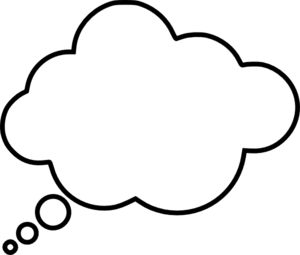
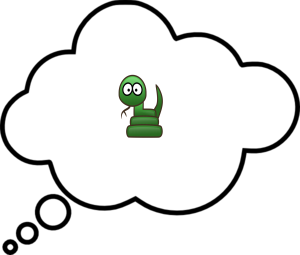
draft dream complete

Changed region(s): [[0.39, 0.2745, 0.57, 0.549]]

diff --git a/xkaa.py b/xkaa.py
@@ -20,7 +20,7 @@ from PIL import Image
 import textwrap
 
 
-def combine_sources(action,posx,posy,img1,img2,final):
+def combine_sources(posx,posy,img1,img2,final):
 	output = final
 	s1 = cairo.ImageSurface.create_from_png(img1)
 	s2 = cairo.ImageSurface.create_from_png(img2)
@@ -42,8 +42,11 @@ class Puppet():
 		self.dreamballoon = "images/dream.png"
 		self.thinkballoon = "images/dream.png"
 		self.shoutballoon = "images/shout.png"
+		self.dreambase = "images/dreambase.png"
+		self.minidream = "images/minidream.png"
 		self.fontfile = "fonts/BonvenoCF-Light.otf"
 		self.title = "xKaa"
+		self.dreamed = dreamed
 
 		self.verb = verb
                 self.text = text
@@ -73,6 +76,18 @@ class Puppet():
 		win.shape_combine_mask(mask, 0, 0)
 		# and show
 		win.show_all()
+
+	def make_dream(self):
+		# combine images together
+		posx = 100
+		posy = 30
+		im = gtk.Image()
+		pixbuf = gtk.gdk.pixbuf_new_from_file(self.dreamed)
+		scaled_buf = pixbuf.scale_simple(128,128,gtk.gdk.INTERP_BILINEAR)
+		scaled_buf.save(self.minidream,'png')
+		myimage = combine_sources(posx,posy,self.dreambase,self.minidream,self.dreamballoon)
+		return self.dreamballoon
+		
 	
 	def build_popup(self):
 
@@ -82,9 +97,8 @@ class Puppet():
 			self.origx = 190; self.origy = 10
 			self.textX = 260; self.textY = 55
 		elif self.verb == "dream":
-			self.baloon=self.dreamballoon
+			self.baloon=self.make_dream()
 			self.origx = 220; self.origy = 0
-			self.textX = 282; self.textY = 60
 		elif self.verb == "think":
 			self.baloon=self.thinkballoon
 			self.origx = 220; self.origy = 0
@@ -100,7 +114,7 @@ class Puppet():
 		
 		# combine images together
 		self.combo = "images/output.png"
-                myimage = combine_sources(self.verb,self.origx,self.origy,self.imagefile,self.baloon,self.combo)
+                myimage = combine_sources(self.origx,self.origy,self.imagefile,self.baloon,self.combo)
 	
                 # draw text
                 img = Image.open(self.combo)
@@ -108,13 +122,15 @@ class Puppet():
                 font = ImageFont.truetype(self.fontfile, 15)
                 mytext = self.text
 
-                # handling the wrap around of text is not easy, will have to improve this
-                mylimit = 20
-                splits=[mytext[x:x+mylimit] for x in range(0,len(mytext),mylimit)]
-                for split in splits:
-                        num = splits.index(split)
-                        num = num * 15
-                        draw.text((self.textX, self.textY+num), split.lstrip(),(0,0,0), font=font)
+
+		if self.baloon != self.dreamballoon:
+                	# handling the wrap around of text is not easy, will have to improve this
+                	mylimit = 20
+                	splits=[mytext[x:x+mylimit] for x in range(0,len(mytext),mylimit)]
+                	for split in splits:
+                        	num = splits.index(split)
+                        	num = num * 15
+                        	draw.text((self.textX, self.textY+num), split.lstrip(),(0,0,0), font=font)
 
                 # save image
                 img.save(self.combo)
@@ -123,4 +139,5 @@ class Puppet():
 	def close_application(self,widget,event,data=None):
 		gtk.main_quit()
 		os.unlink(self.combo)
+
 
